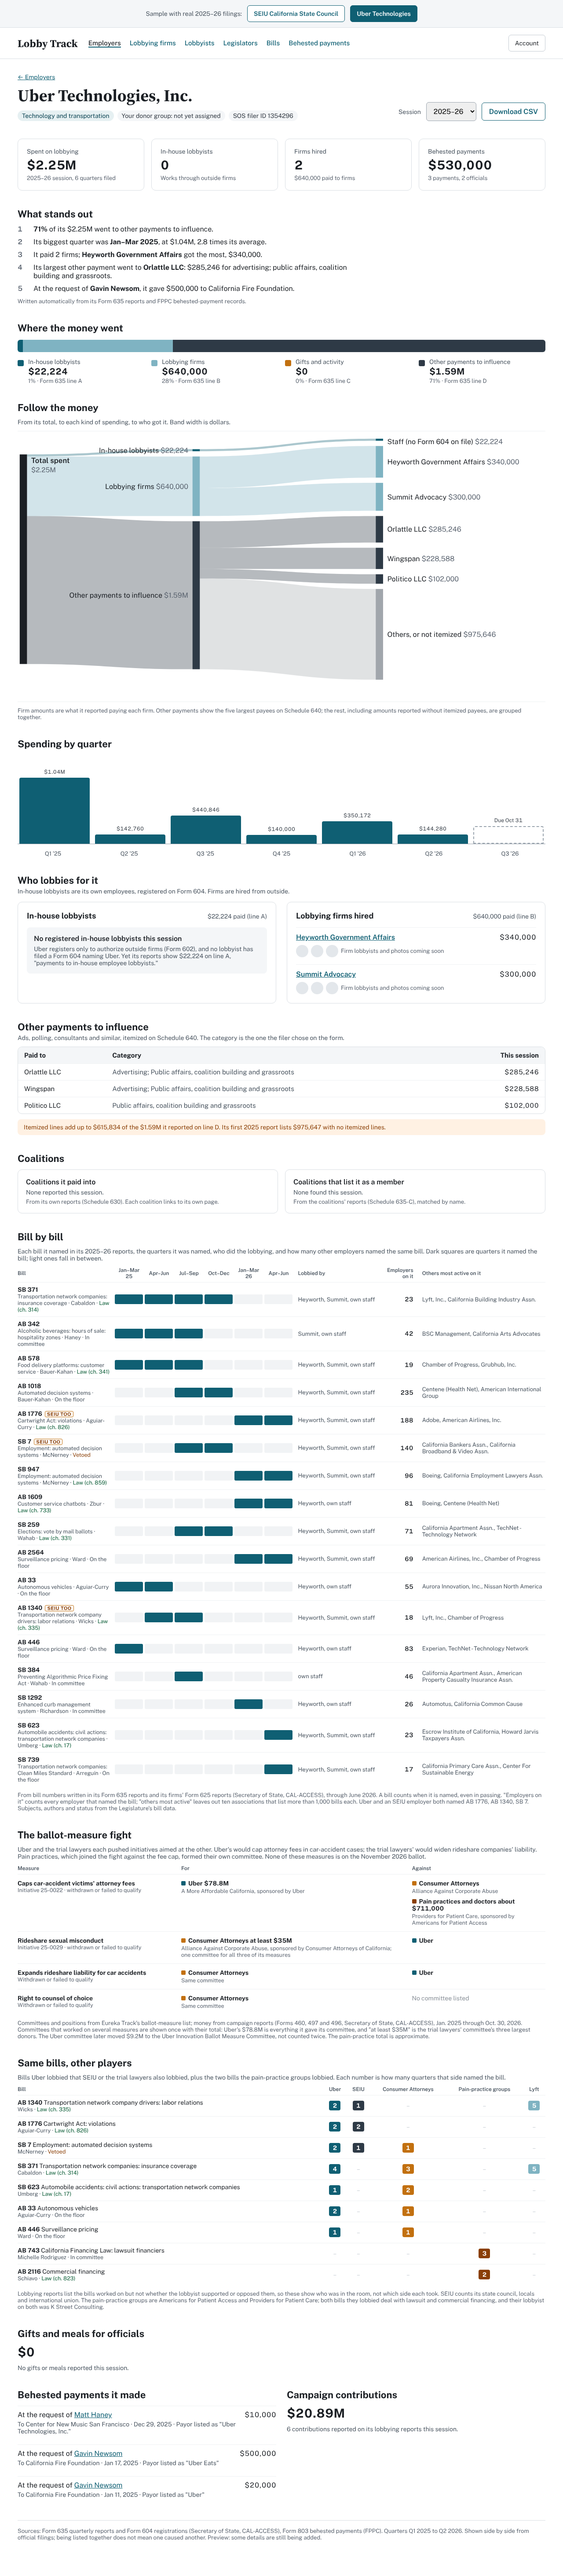
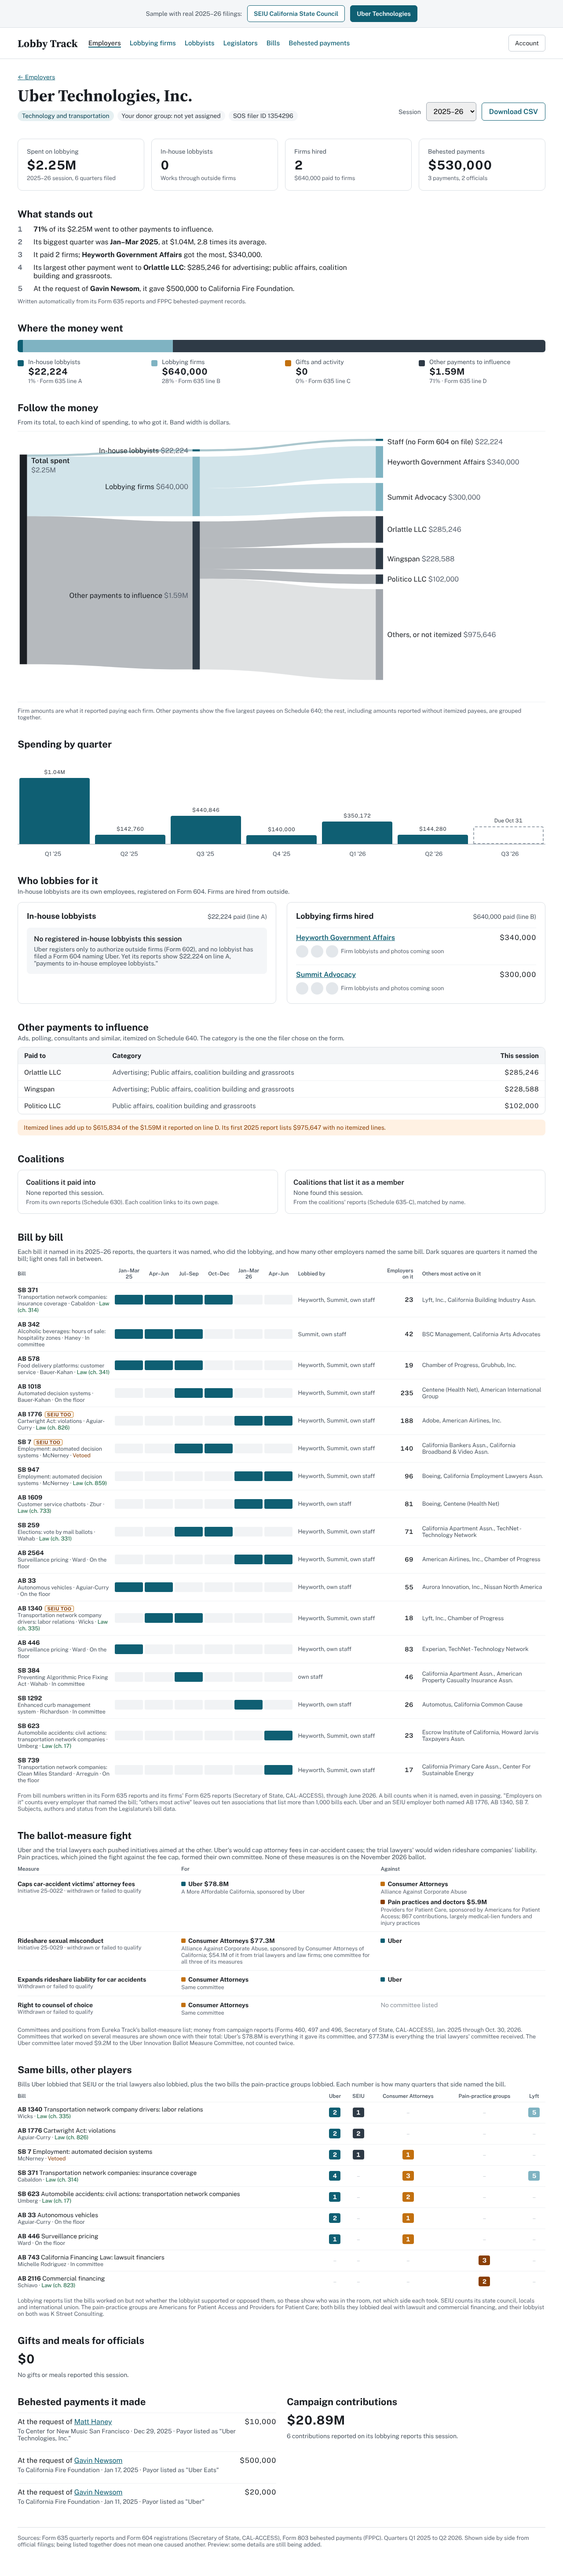
Correct trial lawyer and pain-practice committee totals
Claude-Session: https://claude.ai/code/session_013wSKFYhvjsWLfhMDXcuD88

diff --git a/index.html b/index.html
@@ -1122,10 +1122,10 @@ a{color:#0F5F73}a:hover{color:#0A4352}
         <tr style="border-top: 1px solid #EEF1F3; vertical-align: top">
           <th scope="row" style="text-align: left; padding: 12px 12px 12px 0; font-weight: 700; width: 30%">Caps car-accident victims' attorney fees<div style="font-weight: 400; font-size: 12.5px; color: #5B6470">Initiative 25-0022 · withdrawn or failed to qualify</div></th>
           <td style="padding: 12px; display: grid; gap: 8px"><div style="display: flex; flex-direction: column; gap: 2px"><div><span style="display: inline-block; width: 10px; height: 10px; border-radius: 2px; background: #0F5F73; margin-right: 6px"></span><strong>Uber</strong> <span style="font-variant-numeric: tabular-nums; font-weight: 700">$78.8M</span></div><div style="font-size: 12.5px; color: #5B6470">A More Affordable California, sponsored by Uber</div></div></td>
-          <td style="padding: 12px"><div style="display: grid; gap: 8px"><div style="display: flex; flex-direction: column; gap: 2px"><div><span style="display: inline-block; width: 10px; height: 10px; border-radius: 2px; background: #C2700F; margin-right: 6px"></span><strong>Consumer Attorneys</strong></div><div style="font-size: 12.5px; color: #5B6470">Alliance Against Corporate Abuse</div></div><div style="display: flex; flex-direction: column; gap: 2px"><div><span style="display: inline-block; width: 10px; height: 10px; border-radius: 2px; background: #8A3F06; margin-right: 6px"></span><strong>Pain practices and doctors</strong> <span style="font-variant-numeric: tabular-nums; font-weight: 700">about $711,000</span></div><div style="font-size: 12.5px; color: #5B6470">Providers for Patient Care, sponsored by Americans for Patient Access</div></div></div></td></tr>
+          <td style="padding: 12px"><div style="display: grid; gap: 8px"><div style="display: flex; flex-direction: column; gap: 2px"><div><span style="display: inline-block; width: 10px; height: 10px; border-radius: 2px; background: #C2700F; margin-right: 6px"></span><strong>Consumer Attorneys</strong></div><div style="font-size: 12.5px; color: #5B6470">Alliance Against Corporate Abuse</div></div><div style="display: flex; flex-direction: column; gap: 2px"><div><span style="display: inline-block; width: 10px; height: 10px; border-radius: 2px; background: #8A3F06; margin-right: 6px"></span><strong>Pain practices and doctors</strong> <span style="font-variant-numeric: tabular-nums; font-weight: 700">$5.9M</span></div><div style="font-size: 12.5px; color: #5B6470">Providers for Patient Care, sponsored by Americans for Patient Access; 867 contributions, largely medical-lien funders and injury practices</div></div></div></td></tr>
         <tr style="border-top: 1px solid #EEF1F3; vertical-align: top">
           <th scope="row" style="text-align: left; padding: 12px 12px 12px 0; font-weight: 700; width: 30%">Rideshare sexual misconduct<div style="font-weight: 400; font-size: 12.5px; color: #5B6470">Initiative 25-0029 · withdrawn or failed to qualify</div></th>
-          <td style="padding: 12px; display: grid; gap: 8px"><div style="display: flex; flex-direction: column; gap: 2px"><div><span style="display: inline-block; width: 10px; height: 10px; border-radius: 2px; background: #C2700F; margin-right: 6px"></span><strong>Consumer Attorneys</strong> <span style="font-variant-numeric: tabular-nums; font-weight: 700">at least $35M</span></div><div style="font-size: 12.5px; color: #5B6470">Alliance Against Corporate Abuse, sponsored by Consumer Attorneys of California; one committee for all three of its measures</div></div></td>
+          <td style="padding: 12px; display: grid; gap: 8px"><div style="display: flex; flex-direction: column; gap: 2px"><div><span style="display: inline-block; width: 10px; height: 10px; border-radius: 2px; background: #C2700F; margin-right: 6px"></span><strong>Consumer Attorneys</strong> <span style="font-variant-numeric: tabular-nums; font-weight: 700">$77.3M</span></div><div style="font-size: 12.5px; color: #5B6470">Alliance Against Corporate Abuse, sponsored by Consumer Attorneys of California; $54.1M of it from trial lawyers and law firms; one committee for all three of its measures</div></div></td>
           <td style="padding: 12px"><div style="display: flex; flex-direction: column; gap: 2px"><div><span style="display: inline-block; width: 10px; height: 10px; border-radius: 2px; background: #0F5F73; margin-right: 6px"></span><strong>Uber</strong></div></div></td></tr>
         <tr style="border-top: 1px solid #EEF1F3; vertical-align: top">
           <th scope="row" style="text-align: left; padding: 12px 12px 12px 0; font-weight: 700; width: 30%">Expands rideshare liability for car accidents<div style="font-weight: 400; font-size: 12.5px; color: #5B6470">Withdrawn or failed to qualify</div></th>
@@ -1138,7 +1138,7 @@ a{color:#0F5F73}a:hover{color:#0A4352}
         </tbody>
       </table>
       </div>
-      <p style="margin: 0; font-size: 13px; color: #5B6470">Committees and positions from Eureka Track's ballot-measure list; money from campaign reports (Forms 460, 497 and 496, Secretary of State, CAL-ACCESS), Jan. 2025 through Oct. 30, 2026. Committees that worked on several measures are shown once with their total: Uber's $78.8M is everything it gave its committee, and "at least $35M" is the trial lawyers' committee's three largest donors. The Uber committee later moved $9.2M to the Uber Innovation Ballot Measure Committee, not counted twice. The pain-practice total is approximate.</p>
+      <p style="margin: 0; font-size: 13px; color: #5B6470">Committees and positions from Eureka Track's ballot-measure list; money from campaign reports (Forms 460, 497 and 496, Secretary of State, CAL-ACCESS), Jan. 2025 through Oct. 30, 2026. Committees that worked on several measures are shown once with their total: Uber's $78.8M is everything it gave its committee, and $77.3M is everything the trial lawyers' committee received. The Uber committee later moved $9.2M to the Uber Innovation Ballot Measure Committee, not counted twice.</p>
     </section>
 
     <section style="display: flex; flex-direction: column; gap: 12px">
